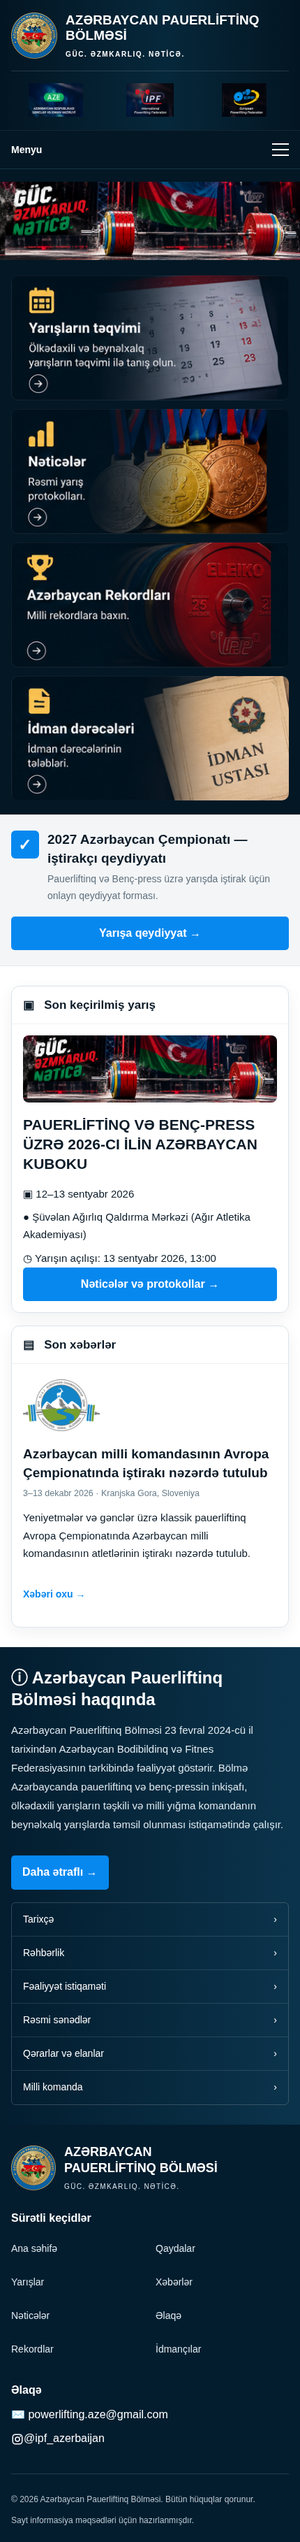
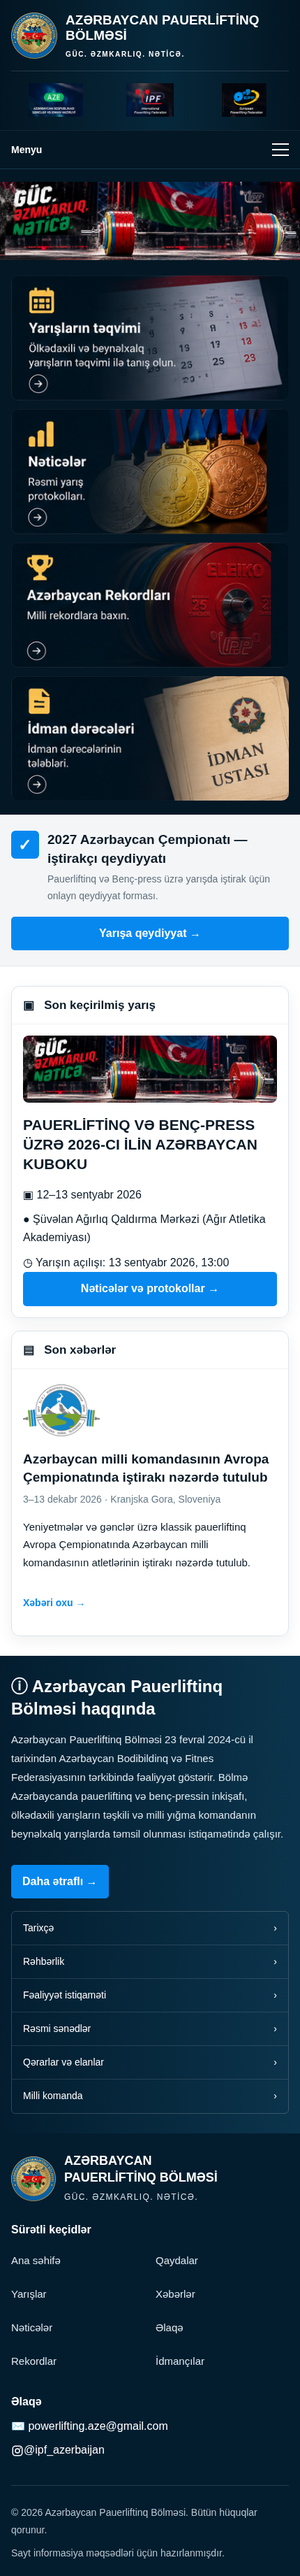
Refine mobile submenu spacing and small-text readability

diff --git a/assets/css/mobile.css b/assets/css/mobile.css
@@ -35,7 +35,7 @@
  .item .drop{display:block;position:static;grid-column:1/-1;min-width:0;width:100%;top:auto!important;box-shadow:none;margin:5px 0 8px;border-radius:8px;padding:6px}
  .mobile-enhanced .item:not(.mobile-submenu-open) .drop{display:none}
  .item.mobile-submenu-open .drop{display:block}
- .drop a{padding:13px 12px;min-height:44px;line-height:1.5;font-size:14px}
+ .drop a{padding:10px 12px;min-height:44px;line-height:1.5;font-size:14px}
  .mobile-menu-toggle:focus-visible,.mobile-submenu-toggle:focus-visible{outline:3px solid #55b8ff;outline-offset:-3px}
  .hero{padding:18px 0;background:#031724}
  .hero>img{width:100%;height:auto;max-width:100%;transform:none;display:block}
@@ -51,7 +51,7 @@
  .event{grid-template-columns:1fr;gap:18px;padding:16px}
  .event img{width:100%;height:auto;max-height:none;object-fit:contain;border-radius:8px}
  .event h2{font-size:21px;line-height:1.35;margin:0 0 16px}
- .meta{line-height:1.65}
+ .meta,.rmeta{font-size:16px;line-height:1.65}
  .registration-strip{padding:22px 0}
  .registration-inner{gap:18px}
  .registration-copy{align-items:flex-start;gap:12px}
@@ -64,6 +64,7 @@
  .newsbody{padding:8px 16px 20px!important;min-height:0}
  .newsbody h3{font-size:19px;line-height:1.4}
  .newsbody p{line-height:1.7}
+ .newsbody small,.news-date{font-size:14px;line-height:1.65}
  .news-link{min-height:44px;padding:12px 0}
  .about h2{font-size:24px;line-height:1.3;margin:0}
  .about p{line-height:1.8;font-size:15px}
@@ -105,9 +106,9 @@
  footer{padding:28px 0 20px}
  .foot{gap:28px}
  .fbrand{gap:12px}.fbrand img{flex:0 0 64px;width:64px;height:64px}
- .fbrand h3{font-size:18px;line-height:1.3}.fbrand small{display:block;font-size:10px;letter-spacing:1.4px;line-height:1.6;margin-top:7px}
- .flinks{gap:4px 16px;font-size:14px}.flinks a{min-height:44px;display:flex;align-items:center}
- .copy{display:block;font-size:12px;line-height:1.8;margin-top:24px;padding-top:18px}.copy span{display:block;margin-top:8px}
+ .fbrand h3{font-size:18px;line-height:1.3}.fbrand small{display:block;font-size:12px;letter-spacing:1.4px;line-height:1.6;margin-top:7px}
+ .flinks{gap:4px 16px;font-size:15px}.flinks a{min-height:44px;display:flex;align-items:center}
+ .copy{display:block;font-size:14px;line-height:1.8;margin-top:24px;padding-top:18px}.copy span{display:block;margin-top:8px}
  @media(min-width:600px){.quick{grid-template-columns:1fr 1fr}.event{grid-template-columns:150px minmax(0,1fr)}.event img{width:150px}.ath-toolbar,.filters,.control-row{grid-template-columns:repeat(2,minmax(0,1fr))}.brand h1{font-size:25px}}
  @media(prefers-reduced-motion:reduce){html{scroll-behavior:auto}*,*:before,*:after{transition:none!important}}
 }

diff --git a/tests/validate_mobile.py b/tests/validate_mobile.py
@@ -24,6 +24,11 @@ with sync_playwright() as p:
         for name in PAGES:
             page.goto(f'http://127.0.0.1:8001/{name}')
             fits(page, width)
+            if name == 'index.html':
+                for selector, expected in [('.meta', '16px'), ('.newsbody small', '14px'), ('.fbrand small', '12px'), ('.flinks', '15px'), ('.copy', '14px')]:
+                    assert page.locator(selector).first.evaluate('(e)=>getComputedStyle(e).fontSize') == expected
+            if name == 'xeberler.html':
+                assert page.locator('.news-date').evaluate('(e)=>getComputedStyle(e).fontSize') == '14px'
             toggle = page.locator('.mobile-menu-toggle')
             assert toggle.is_visible()
             assert not page.locator('.nav').is_visible()
@@ -35,6 +40,7 @@ with sync_playwright() as p:
                 target = button.get_attribute('aria-controls')
                 assert page.locator('#' + target).is_visible()
             assert page.locator('.nav a').evaluate_all('(links)=>links.every(a=>a.getClientRects().length>0)')
+            assert page.locator('.drop a').evaluate_all('(links)=>links.every(a=>a.getBoundingClientRect().height>=44)')
             fits(page, width)
             # The open menu traps focus, and Escape returns it to the opener.
             toggle.focus()

diff --git a/docs/mobile-refinements.md b/docs/mobile-refinements.md
@@ -1,0 +1,18 @@
+# Final mobile refinements
+
+These refinements follow user approval of the mobile layout. Only mobile submenu spacing and small-text typography changed; all rules remain inside the existing max-width:820px block. No HTML, JavaScript, image assets, colors, content, links, section order or athlete records changed in this refinement.
+
+- Submenu vertical padding: 13px → 10px. Single-line items are 44px high rather than 47px; multiline items retain sufficient height and every link keeps a minimum 44px tap target.
+- Competition metadata: 16px (previously 15px).
+- Homepage news metadata: 14px; news-page dates: 14px (previously 13px).
+- Footer tagline: 12px (previously 10px), links: 15px (previously 14px), copyright: 14px (previously 12px).
+
+## Validation
+
+The existing mobile suite checks all 23 content pages at 320, 375, 390, 430 and 768px, menu buttons/submenus, keyboard focus and Escape, all 208 name searches and results expansions, sport/gender filters, results/records/degree controls and tab buttons. The original athlete-data digest must match at every width. The full suite passed at all five widths, including 1,040 athlete searches and 1,040 results expansions, with no JavaScript runtime errors. Added typography and tap-target assertions retain these expectations for future runs; focused checks also passed for every submenu tap target at every width.
+
+All 69 desktop screenshots match commit 0fe19a0 exactly at 1024, 1440 and 1920px. The news page was rechecked at all three widths after its final date-text adjustment. Final overflow checks passed on all 115 mobile page/viewport combinations, with no JavaScript errors. Focused typography checks confirmed the expected sizes at every requested width. Screenshot capture also checked menu behavior at each width and no-JavaScript navigation fallback at 320px.
+
+Updated previews are under docs/previews/: desktop.png remains unchanged; mobile-320.png, mobile-375.png, mobile-390.png, mobile-430.png and mobile-768.png show the final homepage, mobile-menu.png shows compact submenus, and mobile-footer.png/mobile-news.png provide close views of the improved small text.
+
+Run python3 tests/validate_mobile.py against the local site on port 8001. For desktop equality, serve the unchanged baseline on port 8003 and run python3 tests/validate_desktop.py. No merge or deployment is authorized.
